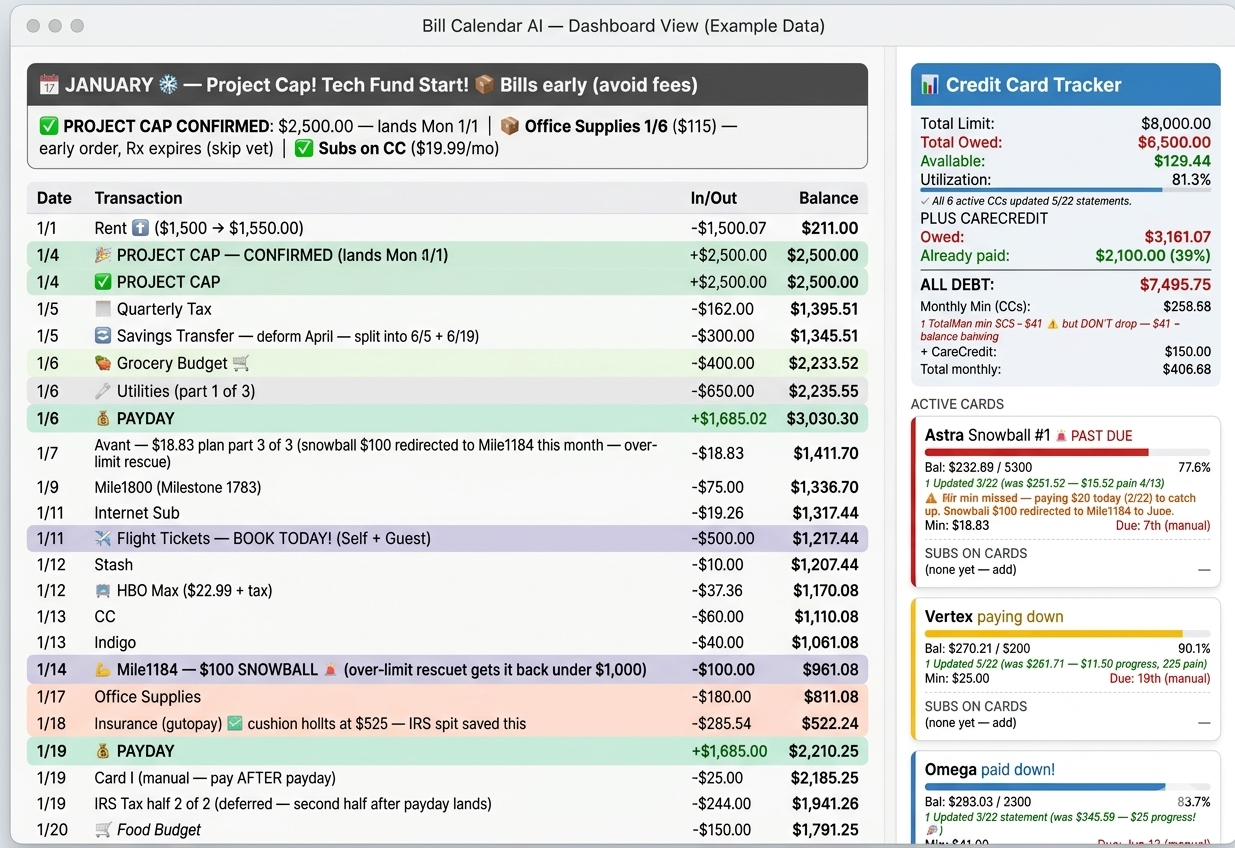
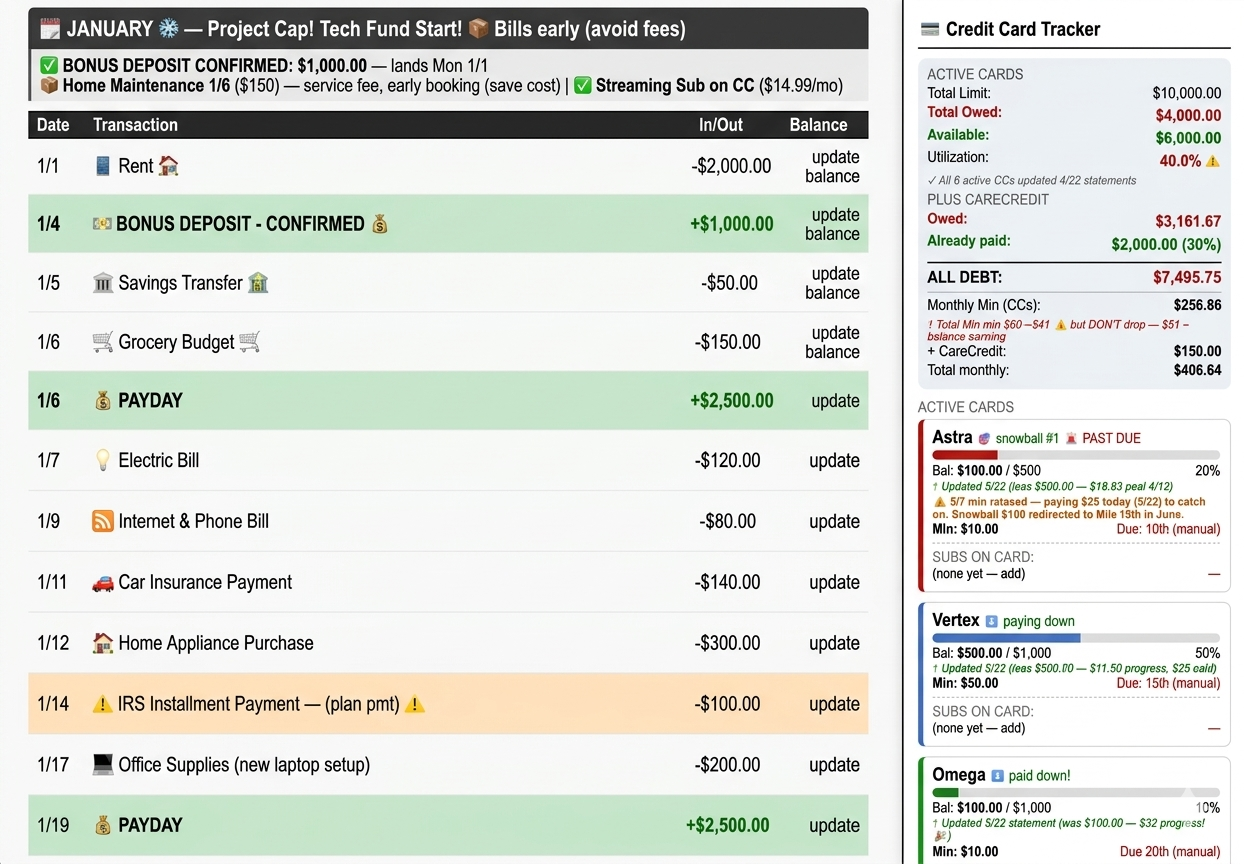
Live Work: 2x2 grid, reorder Bill Calendar tile, refresh screenshots
Force Live Work to a 2-column grid on desktop so four tiles render as a balanced 2x2 instead of leaving an orphan in a 3-column auto-fit. Mobile stays single column via the existing media query.

On the Bill Calendar AI tile, move the dummy-data disclaimer below the description (where it reads as a footnote rather than a subtitle) and tighten the description copy. Refresh the Bill Calendar and Candace Uncut screenshots with cleaner versions.

diff --git a/index.html b/index.html
@@ -363,7 +363,7 @@
 
         .live-work-grid {
             display: grid;
-            grid-template-columns: repeat(auto-fit, minmax(min(320px, 100%), 1fr));
+            grid-template-columns: repeat(2, 1fr);
             gap: 1.5rem;
             margin-top: 3.5rem;
         }
@@ -456,9 +456,10 @@
             color: #6b7280;
             font-size: 0.72rem;
             font-style: italic;
-            margin-bottom: 0.7rem;
+            margin-top: 0.9rem;
             line-height: 1.4;
             letter-spacing: 0.2px;
+            flex: 0 0 auto;
         }
 
         /* ── HOW IT WORKS ── */
@@ -1101,9 +1102,9 @@
                         <span class="placeholder-label">Bill Calendar AI</span>
                     </div>
                     <div class="live-tile-body">
-                        <p class="tile-note">Sample recreation with dummy data — actual system runs privately on real accounts.</p>
                         <h3>Bill Calendar AI</h3>
-                        <p>A monthly bill-tracking system that ingests balances and statements, checks paid bills, and projects totals months ahead.</p>
+                        <p>A monthly bill-tracking system that ingests balances and statements, checks off paid bills, and projects monthly totals out months in advance.</p>
+                        <p class="tile-note">Sample recreation with dummy data — actual system runs privately on real accounts.</p>
                     </div>
                 </div>
             </div>
